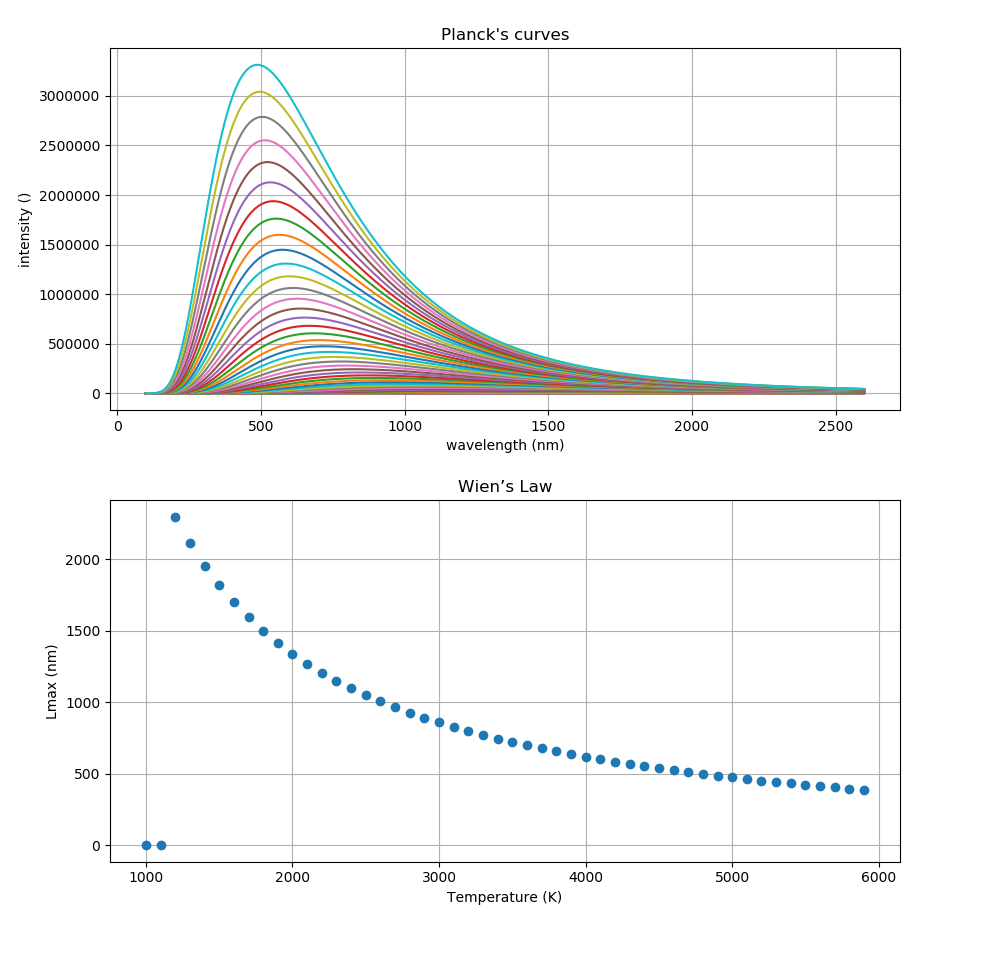
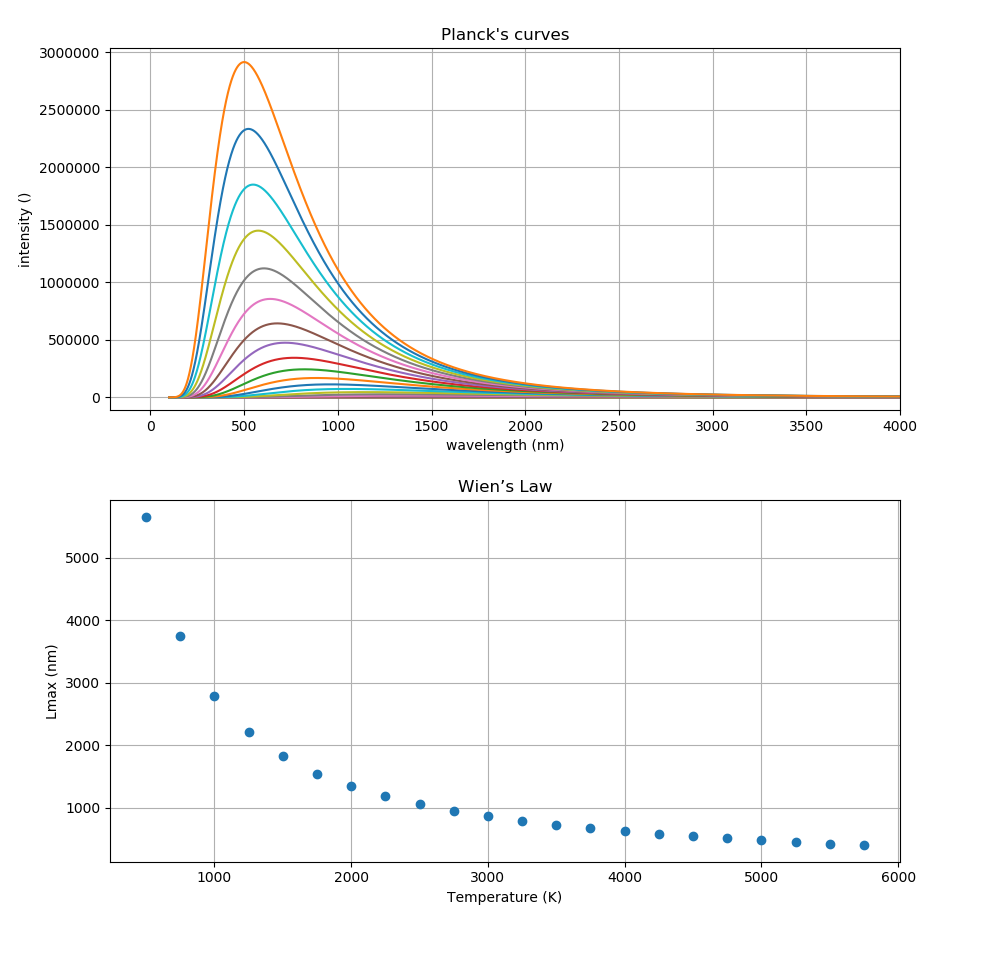
minor change to scale of graph

diff --git a/planck.py b/planck.py
@@ -28,11 +28,11 @@ def planck(T, lam):
  
  
 # create curves for different temperatures
-x = np.arange(100, 2600, 1)
+x = np.arange(100, 10100, 1)
 dx = x[1] - x[0]
 fig, axs = plt.subplots(nrows=2, ncols=1, sharex=False, figsize=(10, 14))
  
-T = np.arange(1500, 6000, 100)
+T = np.arange(500, 6000, 250)
 Lmax = np.array([])
 for t in T:
     y = planck(t,x)
